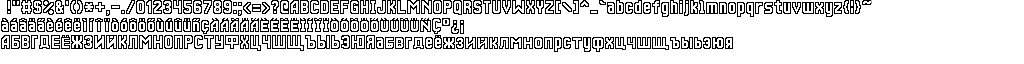
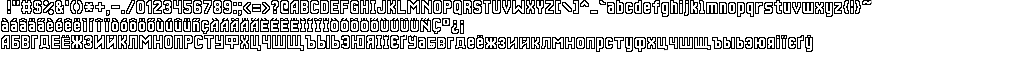
Add uk and by cyrillic letter

Changed region(s): [[0.3438, 0.5312, 0.8125, 0.8125]]

diff --git a/PixelDungeon/src/main/java/com/watabou/noosa/Font.java b/PixelDungeon/src/main/java/com/watabou/noosa/Font.java
@@ -20,10 +20,10 @@ public class Font extends TextureFilm {
 	"[\\]^_`abcdefghijklmnopqrstuvwxyz{|}~";
 
 	public static final String CYRILLIC_UPPER =
-	"АБВГДЕЁЖЗИЙКЛМНОПРСТУФХЦЧШЩЪЫЬЭЮЯ";
+	"АБВГДЕЁЖЗИЙКЛМНОПРСТУФХЦЧШЩЪЫЬЭЮЯІЇЄҐЎ";
 
 	public static final String CYRILLIC_LOWER =
-	"абвгдеёжзийклмнопрстуфхцчшщъыьэюя";
+	"абвгдеёжзийклмнопрстуфхцчшщъыьэюяіїєґў";
 	
 	public static final String ALL_CHARS = LATIN_FULL+SPECIAL_CHAR+CYRILLIC_UPPER+CYRILLIC_LOWER;
 
